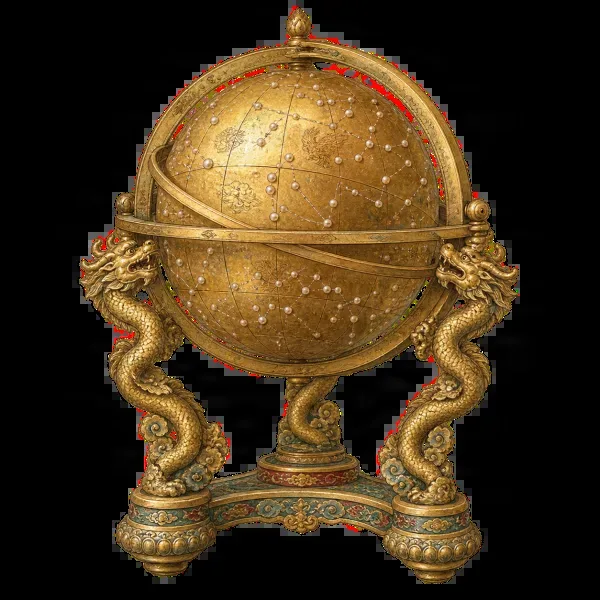
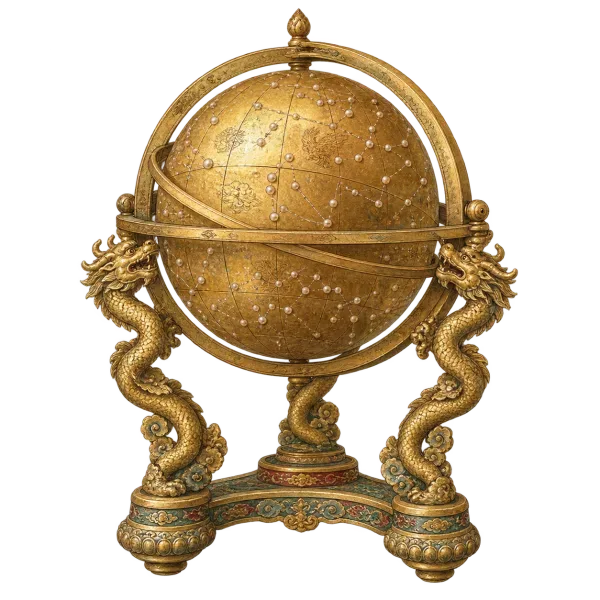
Keep transparency on watermarked art (black boxes behind the lion and other cut-outs)

diff --git a/images.py b/images.py
@@ -69,14 +69,17 @@ def pois(payload):
 
 
 def save(im, path, tm, quality=80):
-    """Watermark, tag and write one web image (WebP or JPEG by extension)."""
+    """Watermark, tag and write one web image (WebP or JPEG by extension). Transparency is kept."""
+    alpha = im.getchannel('A') if 'A' in im.mode else None
     im = tm.encode(im.convert('RGB'), MARK, MODE='text')
+    if alpha:
+        im.putalpha(alpha)
     exif = Image.Exif()
     exif[0x8298] = COPYRIGHT  # Copyright
     exif[0x013B] = 'Penyola'  # Artist
     path.parent.mkdir(parents=True, exist_ok=True)
     fmt = 'JPEG' if path.suffix == '.jpg' else 'WEBP'
-    im.save(path, fmt, quality=quality, exif=exif.tobytes(), method=6 if fmt == 'WEBP' else None)
+    im.save(path, fmt, quality=quality, exif=exif.tobytes(), method=6 if fmt == 'WEBP' else None, **({'exact': True} if alpha else {}))
 
 
 def short(name):
